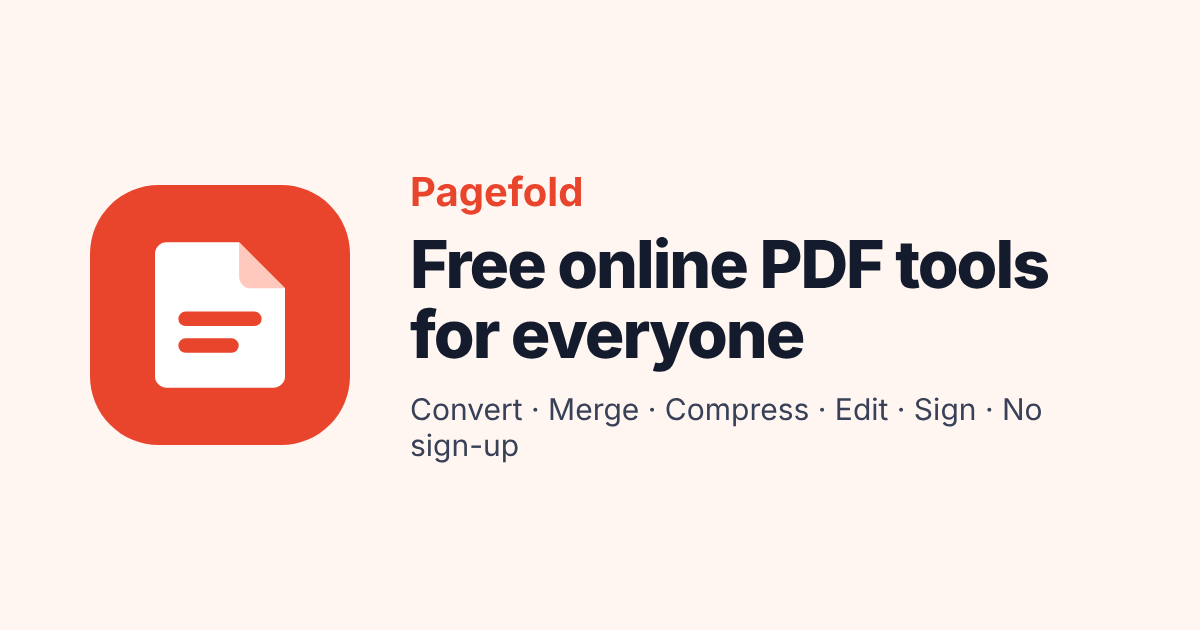
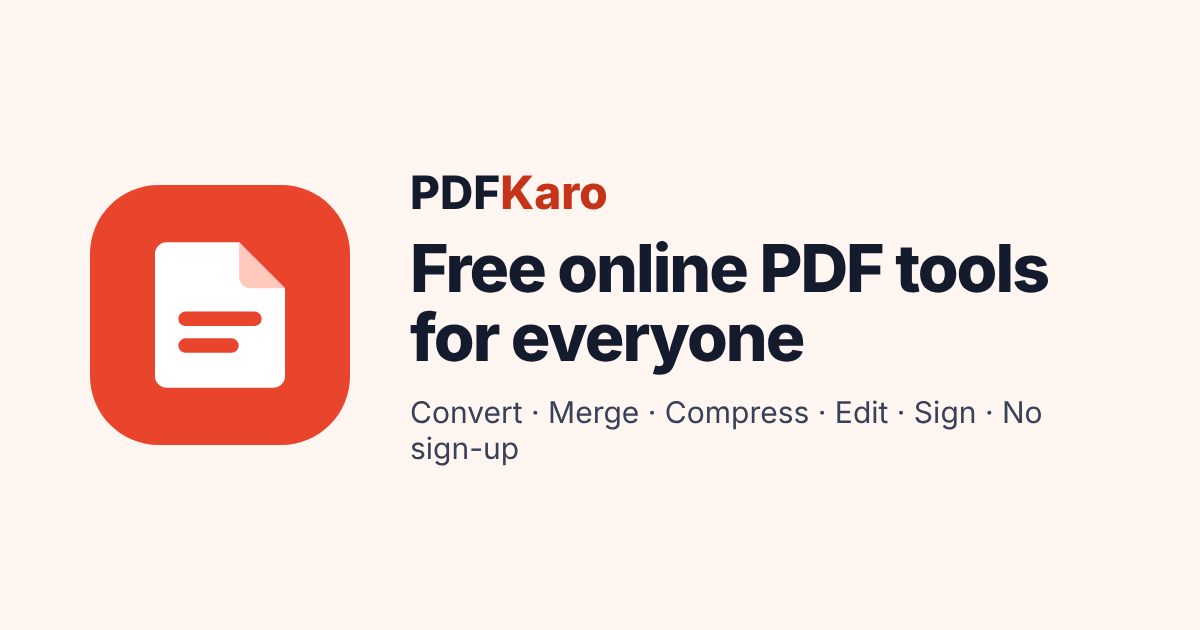
Rename the PDF tools site to PDFKaro
Two-tone wordmark (PDF + Karo), new share image, manifest, package,
Docker user and Render service name. Flipit Free is untouched.

Claude-Session: https://claude.ai/code/session_01AQ49X9NuGwr17YgBa84En7

diff --git a/pdf-tools/lib/render/layout.js b/pdf-tools/lib/render/layout.js
@@ -30,7 +30,9 @@ const MARK = '<svg class="logo__mark" width="34" height="34" viewBox="0 0 34 34"
   + '<path d="M10 7.5h9.5l6 6V25a1.5 1.5 0 0 1-1.5 1.5H10A1.5 1.5 0 0 1 8.5 25V9A1.5 1.5 0 0 1 10 7.5z" fill="#fff"/>'
   + '<path d="M19.5 7.5v4.5a1.5 1.5 0 0 0 1.5 1.5h4.5z" fill="#ffc9bd"/>'
   + '<path d="M12.5 17.5h9M12.5 21h6" stroke="#e8452c" stroke-width="1.9" stroke-linecap="round"/></svg>';
-const logo = (href = '/') => `<a class="logo" href="${href}" aria-label="${esc(SITE)} home">${MARK}<span class="logo__text">${esc(SITE)}</span></a>`;
+// "PDFKaro" -> PDF + <accent>Karo</accent>; other names are shown as they are.
+const wordmark = /^PDF.+/.test(SITE) ? `PDF<span class="logo__accent">${esc(SITE.slice(3))}</span>` : esc(SITE);
+const logo = (href = '/') => `<a class="logo" href="${href}" aria-label="${esc(SITE)} home">${MARK}<span class="logo__text">${wordmark}</span></a>`;
 
 // ------------------------------------------------------------------ ad slots --
 // Reserved, clearly separated places for Google AdSense. Nothing is rendered until ads are

diff --git a/pdf-tools/public/css/site.css b/pdf-tools/public/css/site.css
@@ -1,4 +1,4 @@
-/* Pagefold: one stylesheet for the whole site. Mobile first. */
+/* PDFKaro: one stylesheet for the whole site. Mobile first. */
 
 :root {
   --ink: #141b2d;
@@ -105,6 +105,8 @@ main:focus { outline: none; }
 .header__bar { display: flex; align-items: center; gap: 18px; height: 66px; }
 .logo { display: inline-flex; align-items: center; gap: 10px; text-decoration: none; color: var(--ink); font-weight: 800; font-size: 1.22rem; letter-spacing: -.03em; flex: none; }
 .logo:hover { color: var(--ink); }
+.logo__accent { color: var(--brand-dark); }
+.site-footer .logo__accent { color: #ff8a73; }
 .nav { display: none; flex: 1; justify-content: center; }
 .nav__list { display: flex; gap: 2px; list-style: none; margin: 0; padding: 0; }
 .nav__item { position: relative; }

diff --git a/pdf-tools/lib/config.js b/pdf-tools/lib/config.js
@@ -7,7 +7,7 @@ const MAX_UPLOAD_MB = num(process.env.MAX_UPLOAD_MB, 100);
 
 module.exports = {
   PORT: num(process.env.PORT, 3000),
-  SITE_NAME: process.env.SITE_NAME || 'Pagefold',
+  SITE_NAME: process.env.SITE_NAME || 'PDFKaro',
   BASE_URL: (process.env.BASE_URL || '').replace(/\/+$/, ''),
   CONTACT_EMAIL: process.env.CONTACT_EMAIL || '',
   TRUST_PROXY: process.env.TRUST_PROXY || '',

diff --git a/pdf-tools/lib/engines/runner.js b/pdf-tools/lib/engines/runner.js
@@ -13,7 +13,7 @@ const path = require('path');
 const { spawn } = require('child_process');
 const config = require('../config');
 
-const PREFIX = 'pagefold-';
+const PREFIX = 'pdfkaro-';
 
 class UserError extends Error {
   constructor(message, statusCode = 422) { super(message); this.userMessage = message; this.statusCode = statusCode; }

diff --git a/pdf-tools/public/js/lib/handoff.js b/pdf-tools/public/js/lib/handoff.js
@@ -1,7 +1,7 @@
 // Hands files picked on the homepage to a tool page in the same browser, via IndexedDB.
 // Nothing leaves the device; the entry is deleted as soon as the tool page reads it.
 
-const DB = 'pagefold';
+const DB = 'pdfkaro';
 const STORE = 'handoff';
 const MAX_AGE = 10 * 60 * 1000;
 

diff --git a/pdf-tools/README.md b/pdf-tools/README.md
@@ -1,4 +1,4 @@
-# Pagefold: free online PDF tools
+# PDFKaro: free online PDF tools
 
 41 PDF tools: convert, organize, edit, sign, compress, protect, OCR. Every tool is free. There
 are no accounts, plans, credits, trials or watermarks. The site is meant to be funded by Google
@@ -22,8 +22,8 @@ The browser tools work straight away. The server tools need the engines listed b
 Dockerfile installs all of them:
 
 ```bash
-docker build -t pagefold .
-docker run -p 3000:3000 --env-file .env pagefold
+docker build -t pdfkaro .
+docker run -p 3000:3000 --env-file .env pdfkaro
 ```
 
 When the server starts, it logs which engines it found. A tool whose engine is missing shows
